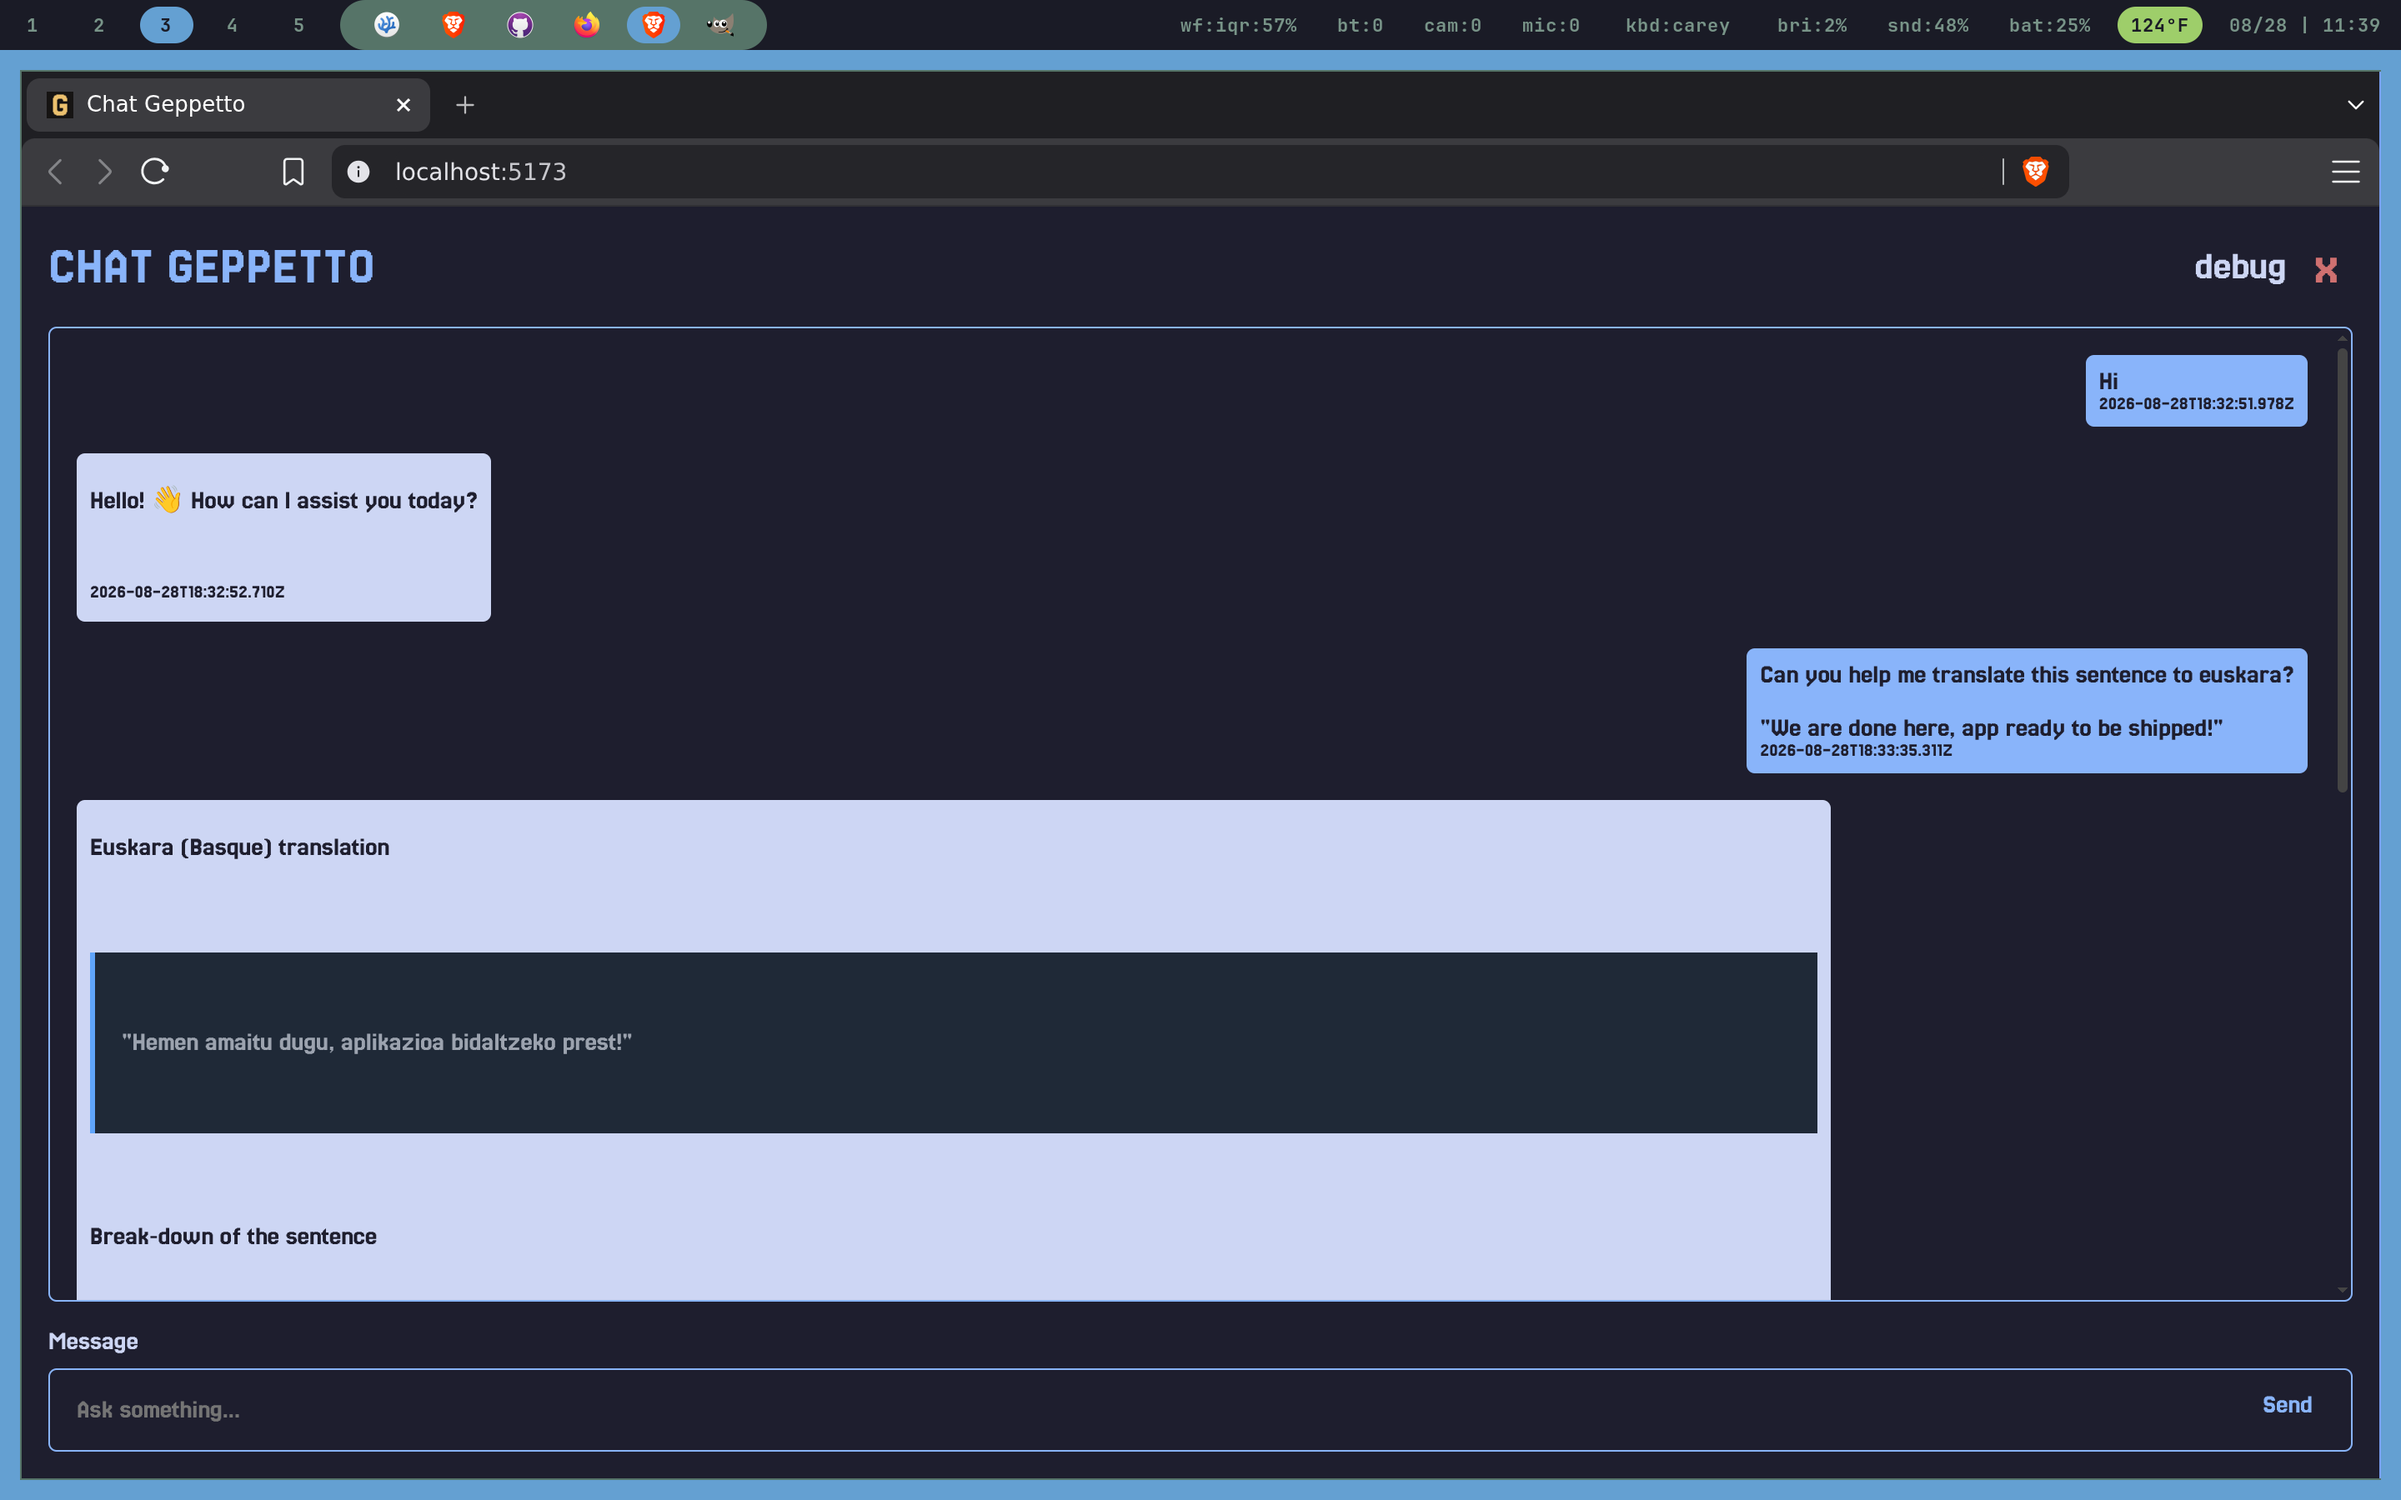
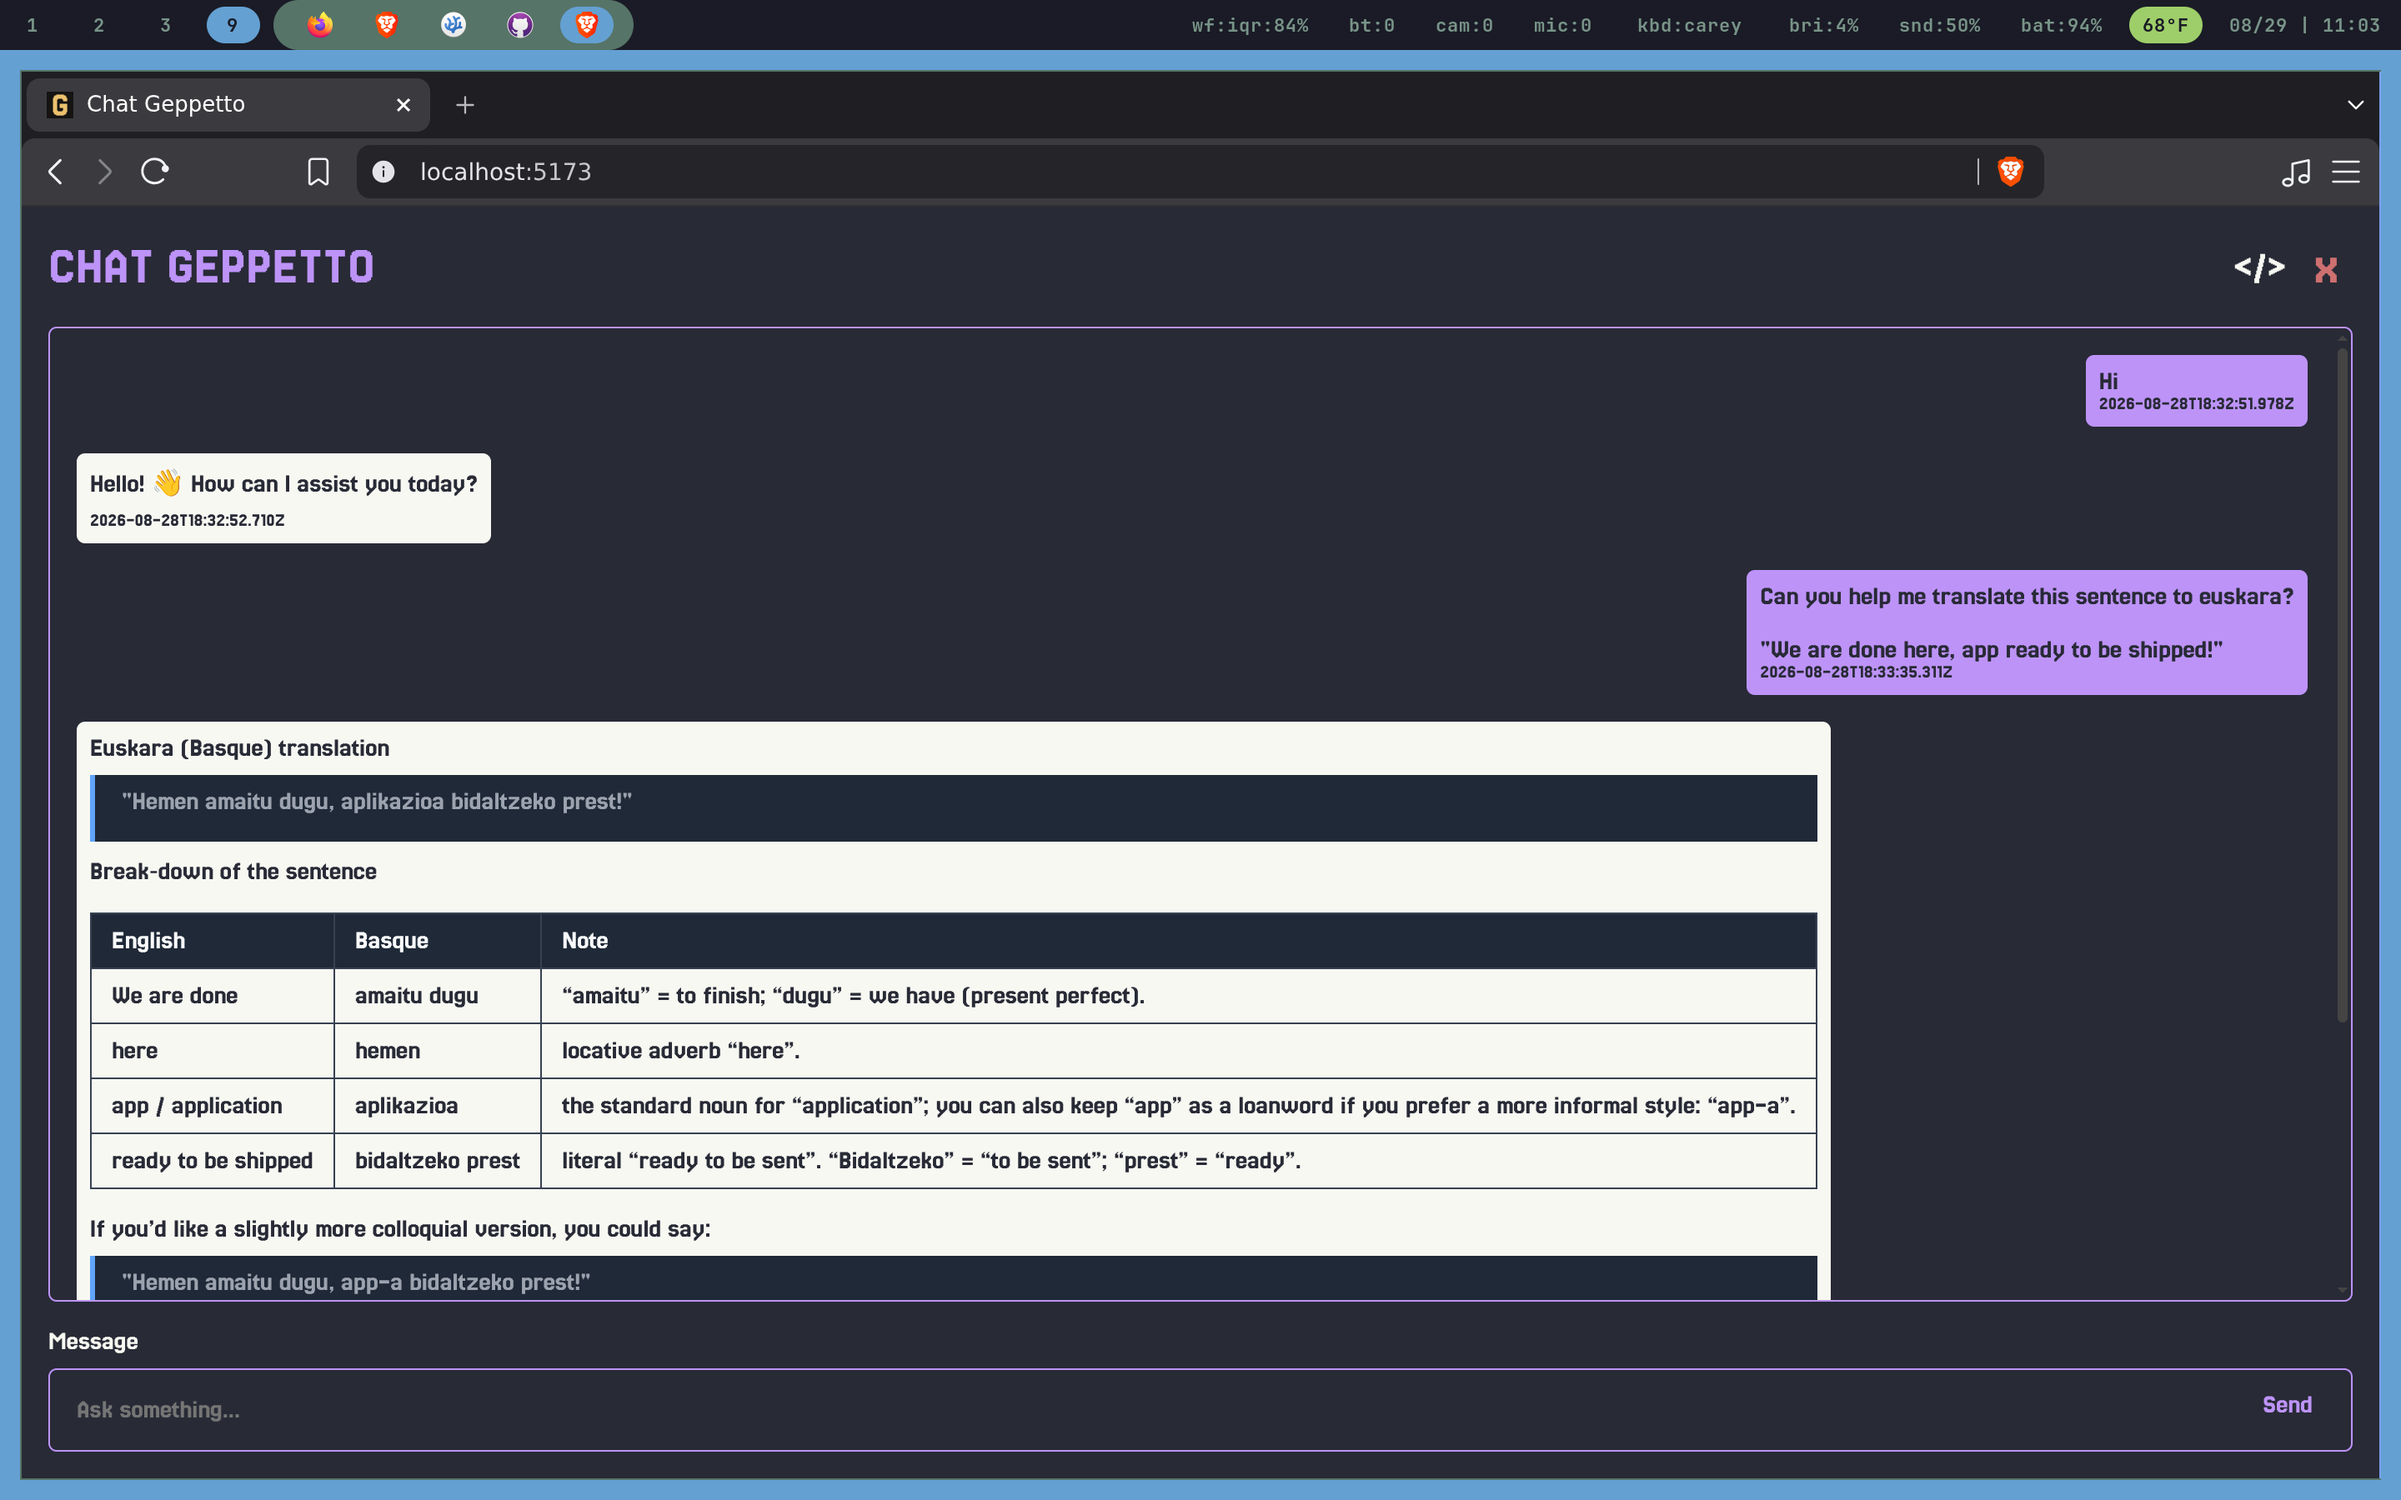
cleaning css
- renewing screenshots

diff --git a/src/views/home.vue b/src/views/home.vue
@@ -32,7 +32,7 @@ function toggleDebugger() {
   <main class="home" :class="currentTheme">
     <header>
       <h1>Chat Geppetto</h1>
-      <button type="button" class="debug-btn" @click="toggleDebugger">debug</button>
+      <button type="button" class="debug-btn" @click="toggleDebugger">{{ "</>" }}</button>
       <button type="button" class="reset-btn" @click="messages.clearMsgs">x</button>
     </header>
     <section class="debug" v-if="showDebugger">
@@ -40,7 +40,7 @@ function toggleDebugger() {
         {{ messages.chat }}
       </pre>
     </section>
-    <section class="output">
+    <section v-else class="output">
       <TextBubble v-for="(message, index) in messages.chat" :key="index" :class="message.role">
         <template v-if="message.role === 'system-error'">
           <Alert class="error">{{ message.content }}</Alert>
@@ -76,3 +76,99 @@ function toggleDebugger() {
     </section>
   </main>
 </template>
+
+<style scoped>
+main.home {
+  width: 100%;
+  height: 100vh;
+  display: flex;
+  flex-direction: column;
+  padding: 1rem;
+  gap: 1rem;
+
+  header {
+    display: flex;
+    align-items: center;
+    justify-content: space-between;
+
+    h1 {
+      margin: 0;
+      text-transform: uppercase;
+      color: var(--accent);
+      display: inline-block;
+      flex-grow: 1;
+    }
+
+    .debug-btn {
+      font-size: 1.5rem;
+      color: var(--foreground);
+    }
+
+    .reset-btn {
+      font-size: 2rem;
+      color: var(--danger);
+    }
+  }
+
+  button {
+    background-color: transparent;
+    color: var(--accent);
+    border-radius: 10px;
+    border: 0;
+    padding: 0.25rem 0.5rem;
+    font-size: 1rem;
+
+    &:hover {
+      color: var(--fg);
+      cursor: pointer;
+    }
+  }
+
+  .output {
+    flex-grow: 1;
+    padding: 1rem;
+    border-radius: 5px;
+    overflow-y: auto;
+    border: 1px solid var(--accent);
+  }
+
+  .input form {
+    position: relative;
+    display: flex;
+    flex-direction: column;
+    gap: 0.5rem;
+
+    button {
+      position: absolute;
+      bottom: 1rem;
+      right: 1rem;
+    }
+
+    textarea {
+      display: block;
+      border-radius: 5px;
+      border: 1px solid var(--accent);
+      background-color: transparent;
+      padding: 1rem;
+      padding-inline-end: 3rem;
+      width: 100%;
+      font-size: 1rem;
+      color: var(--fg);
+      margin: 0;
+      resize: none;
+    }
+  }
+
+  section.debug {
+    border: 1px solid var(--foreground);
+    overflow-y: auto;
+    border-radius: 5px;
+    min-height: 150px;
+    padding: 1rem;
+
+    pre {
+      white-space: pre-wrap;
+    }
+  }
+}
+</style>

diff --git a/src/assets/stylesheets/markdown.css b/src/assets/stylesheets/markdown.css
@@ -1,33 +1,20 @@
 /* Disclaimer: this was auto-generated by AI */
+/* I made some extra adjustments to make sure the spacing match my vision */
 .text-bubble.assistant {
-  line-height: 1.6;
-  color: #e5e7eb;
-
   h1,
   h2,
   h3,
   h4,
   h5,
-  h6 {
-    color: #f9fafb;
-    margin: 1rem 0 0.5rem;
-    line-height: 1.3;
-  }
-
-  h1 {
-    font-size: 1.5rem;
-  }
-
-  h2 {
-    font-size: 1.3rem;
-  }
-
-  h3 {
-    font-size: 1.15rem;
-  }
-
-  p {
-    margin: 0.5rem 0;
+  h6,
+  p,
+  blockquote,
+  code,
+  ul,
+  ol,
+  pre,
+  table {
+    margin: 0 0 0.5rem;
   }
 
   a {
@@ -41,15 +28,13 @@
   ul,
   ol {
     padding-left: 1.5rem;
-    margin: 0.75rem 0;
   }
 
   li {
-    margin: 0.25rem 0;
+    margin: 0 0 0.25rem;
   }
 
   blockquote {
-    margin: 1rem 0;
     padding: 0.5rem 1rem;
     border-left: 3px solid #60a5fa;
     color: #9ca3af;
@@ -67,7 +52,6 @@
   pre {
     overflow-x: auto;
     padding: 1rem;
-    margin: 1rem 0;
     border-radius: 6px;
     background: #111827;
   }

diff --git a/src/components/text-bubble.vue b/src/components/text-bubble.vue
@@ -3,3 +3,46 @@
     <div><slot /></div>
   </div>
 </template>
+
+<style>
+.text-bubble {
+  display: flex;
+  width: 100%;
+  margin: 0 0 1rem;
+
+  &.user {
+    white-space: break-spaces;
+    justify-content: end;
+    padding-left: 2rem;
+
+    > * {
+      background-color: var(--accent);
+    }
+  }
+
+  &.assistant,
+  &.system-error {
+    padding-right: 2rem;
+  }
+
+  &.assistant > * {
+    background-color: var(--foreground);
+  }
+
+  &.system-error > * {
+    background-color: var(--danger);
+  }
+
+  > * {
+    border-radius: 5px;
+    border: 0;
+    color: var(--background);
+    padding: 0.5rem;
+
+    time {
+      display: block;
+      font-size: 0.7rem;
+    }
+  }
+}
+</style>

diff --git a/src/assets/styles.css b/src/assets/styles.css
@@ -1,16 +1,3 @@
 @import url(./stylesheets/root.css);
 @import url(./stylesheets/themes.css);
-@import url(./stylesheets/view_home.css);
 @import url(./stylesheets/markdown.css);
-
-section.debug {
-  border: 1px solid var(--foreground);
-  overflow-y: auto;
-  border-radius: 5px;
-  min-height: 150px;
-  padding: 1rem;
-
-  pre {
-    white-space: pre-wrap;
-  }
-}

diff --git a/readme.md b/readme.md
@@ -61,7 +61,7 @@ Running the app
 npm run dev
 ```
 
-Running the unit tests
+Running unit tests
 
 ```sh
 npm run test
